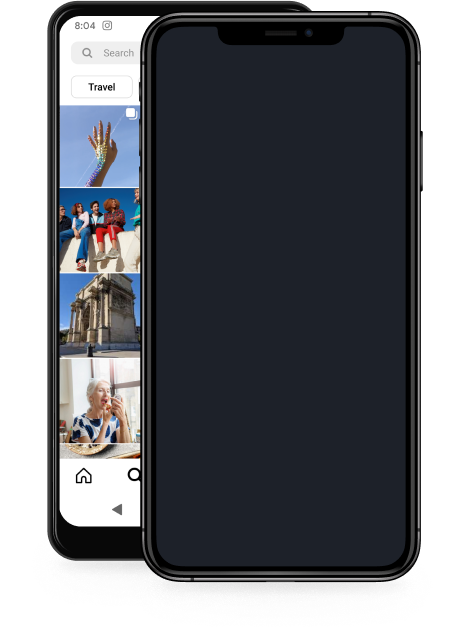
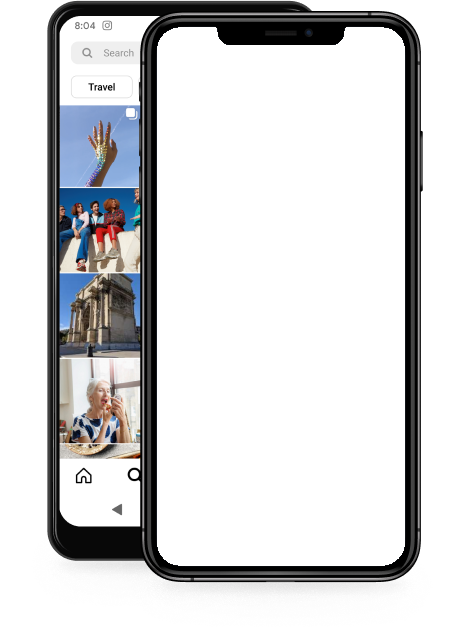
add slider

diff --git a/style.css b/style.css
@@ -18,9 +18,11 @@ body {
 
 .instagram-wrapper {
     display: flex;
-    align-items: center;
+    align-items: start;
     justify-content: center;
     height: 100vh;
+    position: relative;
+    margin-top: 10%;
 }
 
 .instagram-phone {
@@ -31,7 +33,26 @@ body {
 }
 
 .instagram-phone img {
-    height: 60%;
+    position: relative;
+}
+
+.slider {
+    display: flex;
+    justify-content: center;
+    align-items: flex-end;
+    position: relative;
+    left: 73.1%;
+    margin-top: 129.75%;
+}
+
+.slider img {
+    position: absolute;
+    opacity: 0;
+    transition: opacity 2.5s ease;
+}
+
+.slider img.selected {
+    opacity: 1;
 }
 
 .instagram-continue {
@@ -138,7 +159,7 @@ a {
     background-image: url('img/googleplay-button.png');
 }
 
-@media (min-width: 1200px) {
+@media (min-width: 2700px) {
     .instagram-wrapper {
         width: 60%;
     }

diff --git a/script.js b/script.js
@@ -1,0 +1,28 @@
+let time = 5000,
+    currentImageIndex = 0,
+    images = document.querySelectorAll(".slider img")
+    max = images.length;
+
+function nextImage () {
+    console.log("aaaaaaaaaaaaaaaaaaa")
+    images[currentImageIndex]
+        .classList.remove("selected")
+
+    currentImageIndex++
+
+    if(currentImageIndex >= max)
+        currentImageIndex = 0
+
+    images[currentImageIndex]
+        .classList.add("selected")
+}
+
+nextImage()
+
+function start() {
+    setInterval(()=> {
+        nextImage()
+    }, time)
+}
+
+window.addEventListener("load", start)

diff --git a/index.html b/index.html
@@ -9,6 +9,11 @@
 <body>
     <div class="instagram-wrapper">
         <div class="instagram-phone">
+            <div class="slider">
+                <img class="selected" src="img/pagina.png" alt="pagina">
+                <img src="img/conversa.png" alt="conversa">
+                <img src="img/camera.png" alt="camera">
+            </div>
             <img src="img/celular.png" alt="celular">
         </div>
         <div class="instagram-continue">
@@ -38,5 +43,6 @@
         </div>
     </div>
     
+    <script src="script.js"></script>
 </body>
 </html>

diff --git a/ReadMe.md b/ReadMe.md
@@ -1,0 +1,9 @@
+# Deasafio HTML e CSS da DIO
+
+### Recriar a página inicial do instagram
+*Página responsiva
+
+## Meu adicinal:
+*Slider rotativo
+
+[Deploy Website](https://recriando-instagram-laiskaori.netlify.app/)
